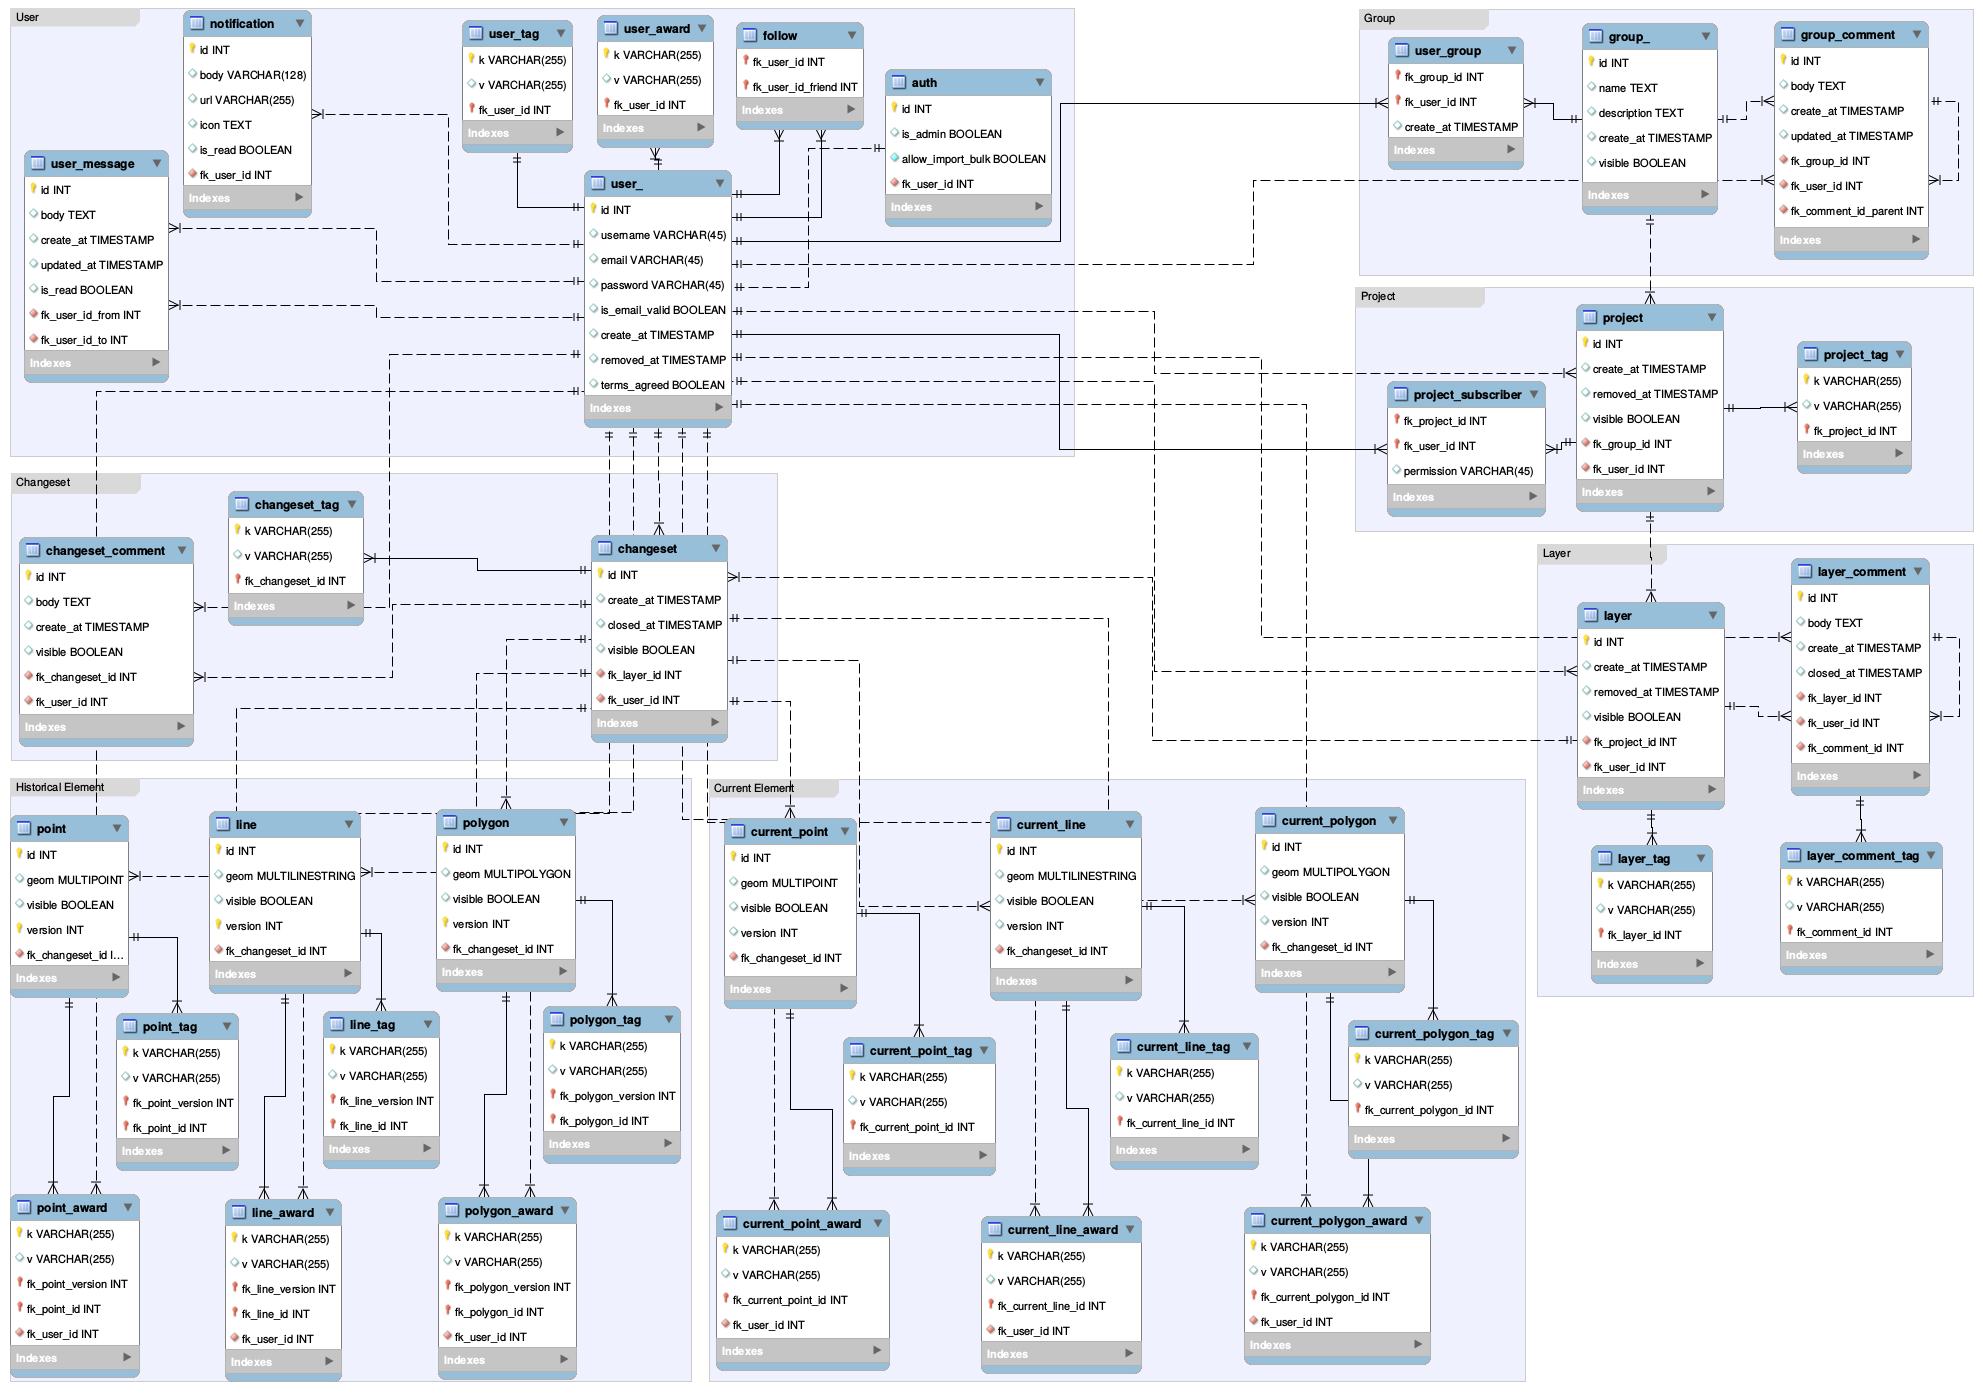
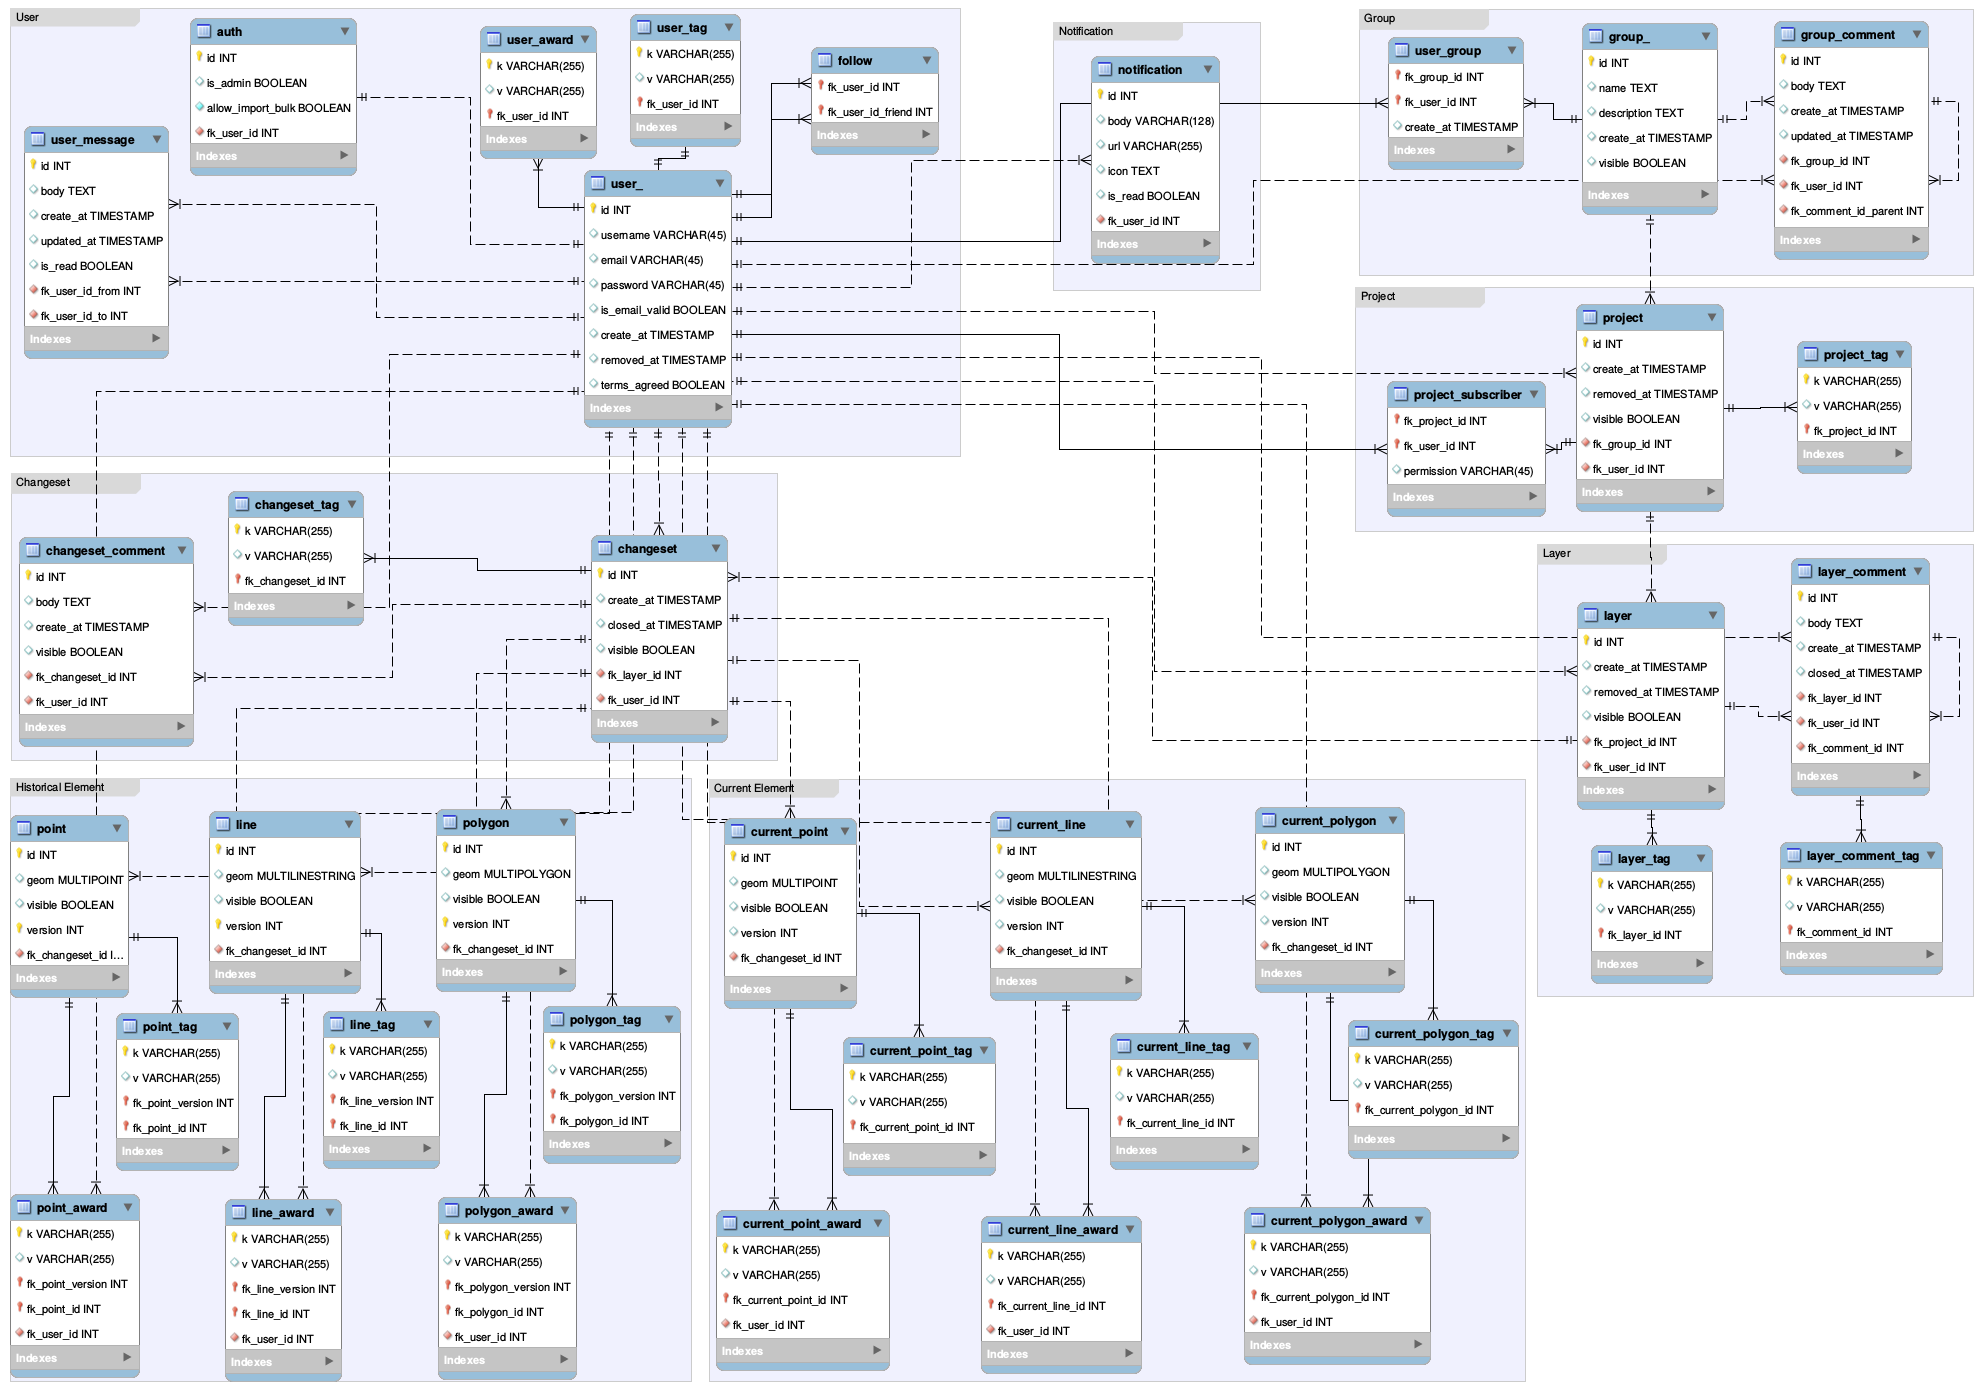
Separated the notification of user (just in model)

Changed region(s): [[0.2153, 0.0, 0.6152, 0.2161], [0.0, 0.0, 0.1846, 0.2778]]

diff --git a/files/db/sql/schema/mysql_to_postgresql.py b/files/db/sql/schema/mysql_to_postgresql.py
@@ -50,8 +50,10 @@ def remove_bad_lines_and_put_default_values(text):
     # iterate reversed
     for i in range(len(lines_copy)-1, -1, -1):
         line = lines_copy[i]
-        # if there is a index line, so remove it in the original list
+        
         line_lower = line.lower()
+
+        # if there is a index line, so remove it in the original list
         if "index" in line_lower or ("brst" in line_lower and "2017" in line_lower):
             del lines[i]
             continue
@@ -64,11 +66,13 @@ def remove_bad_lines_and_put_default_values(text):
         # put default values, but NOT in FKs
         if "visible boolean" in line_lower and "fk" not in line_lower:
             lines[i] = lines[i].replace(",", " DEFAULT TRUE,")
-            #print(lines[i])
 
         if "version int" in line_lower and "fk" not in line_lower:
             lines[i] = lines[i].replace(",", " DEFAULT 1,")
-            #print(lines[i])
+
+        # default FALSE to "is_read" column, because is True, just if the user read the message
+        if "is_read boolean" in line_lower:
+            lines[i] = lines[i].replace(",", " DEFAULT FALSE,")
 
     text = "\n".join(lines)
 

diff --git a/doc/api/feature/dynamic_attribute.md b/doc/api/feature/dynamic_attribute.md
@@ -58,15 +58,6 @@ Examples:
 | doc:instagram:01               | link (e.g. "https://www.instagram.com/?hl=pt-br")                 | point, line, polygon      | The first web link for a photo                     |
 
 
-### Map vectorization
-
-How to describe when the data is provide by map vectorization:
-
-| Key                            | Value                               | Element                   | Comment                                                      |
-| ------------------------------ | ----------------------------------- | ------------------------- | ------------------------------------------------------------ |
-| map_vectorization              | boolean (e.g. "true" or "false")    | line, polygon             | If the data was created by a map vectorization               |
-
-
 ### Sources
 
 How to describe the data source following the schema: source:<source_name>:\<attribute>, being:
@@ -93,3 +84,11 @@ How to describe the themes on layers:
 | ------------------------------ | ----------------------------------- | ------------------------- | ------------------------------------------------------------ |
 | theme                          | text (e.g. "generic", "crime")      | layer                     | The theme of a layer                                         |
 
+
+<!-- ### Map vectorization -->
+
+<!-- How to describe when the data is provide by map vectorization: -->
+
+<!-- | Key                            | Value                               | Element                   | Comment                                                      | -->
+<!-- | ------------------------------ | ----------------------------------- | ------------------------- | ------------------------------------------------------------ | -->
+<!-- | map_vectorization              | boolean (e.g. "true" or "false")    | line, polygon             | If the data was created by a map vectorization               | -->

diff --git a/doc/README.md b/doc/README.md
@@ -9,3 +9,8 @@
 ## API Documentation:
 
 - [API Documentation](api/README.md)
+
+
+## How to use Spatiotemporal Geocoding on VGIWS?
+
+- [Temporal Geocoding](miscellaneous/spatiotemporal_geocoding.md)

diff --git a/doc/miscellaneous/spatiotemporal_geocoding.md b/doc/miscellaneous/spatiotemporal_geocoding.md
@@ -1,0 +1,2 @@
+## Spatiotemporal Geocoding
+
